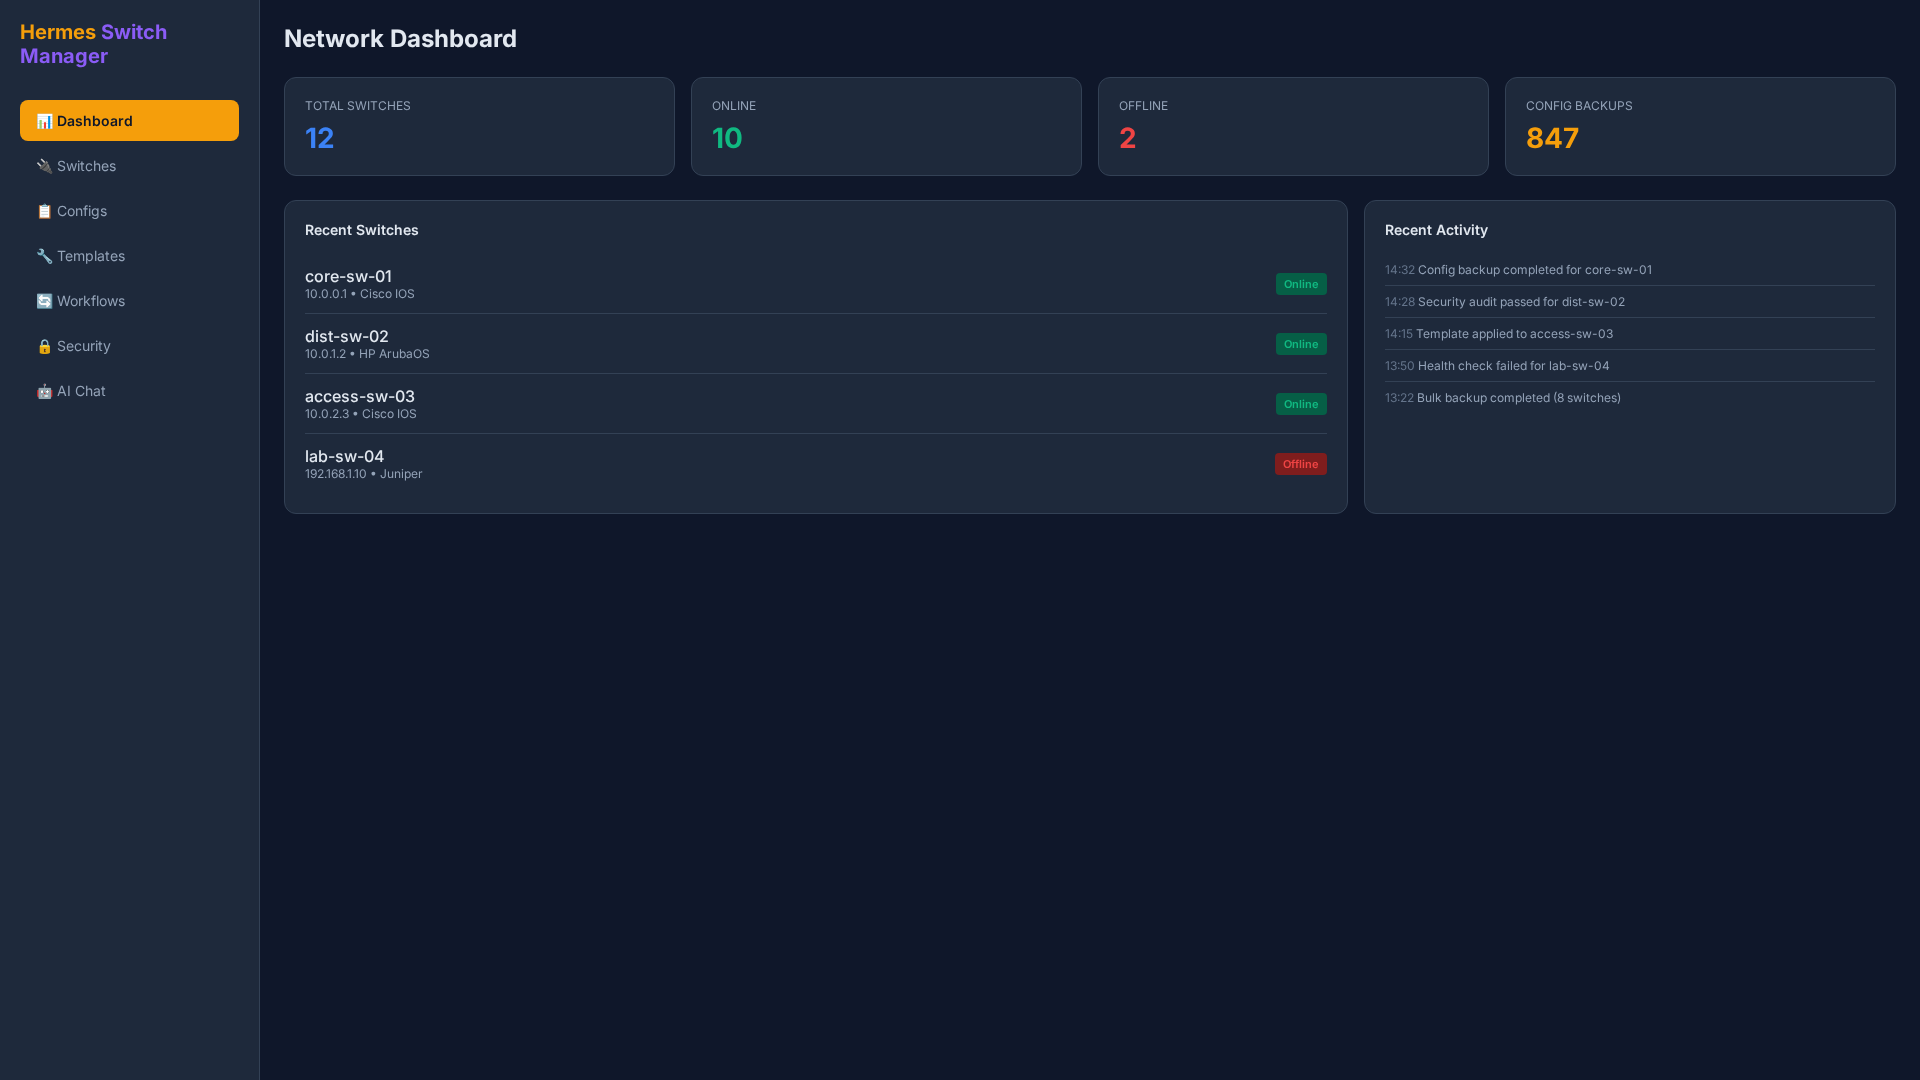
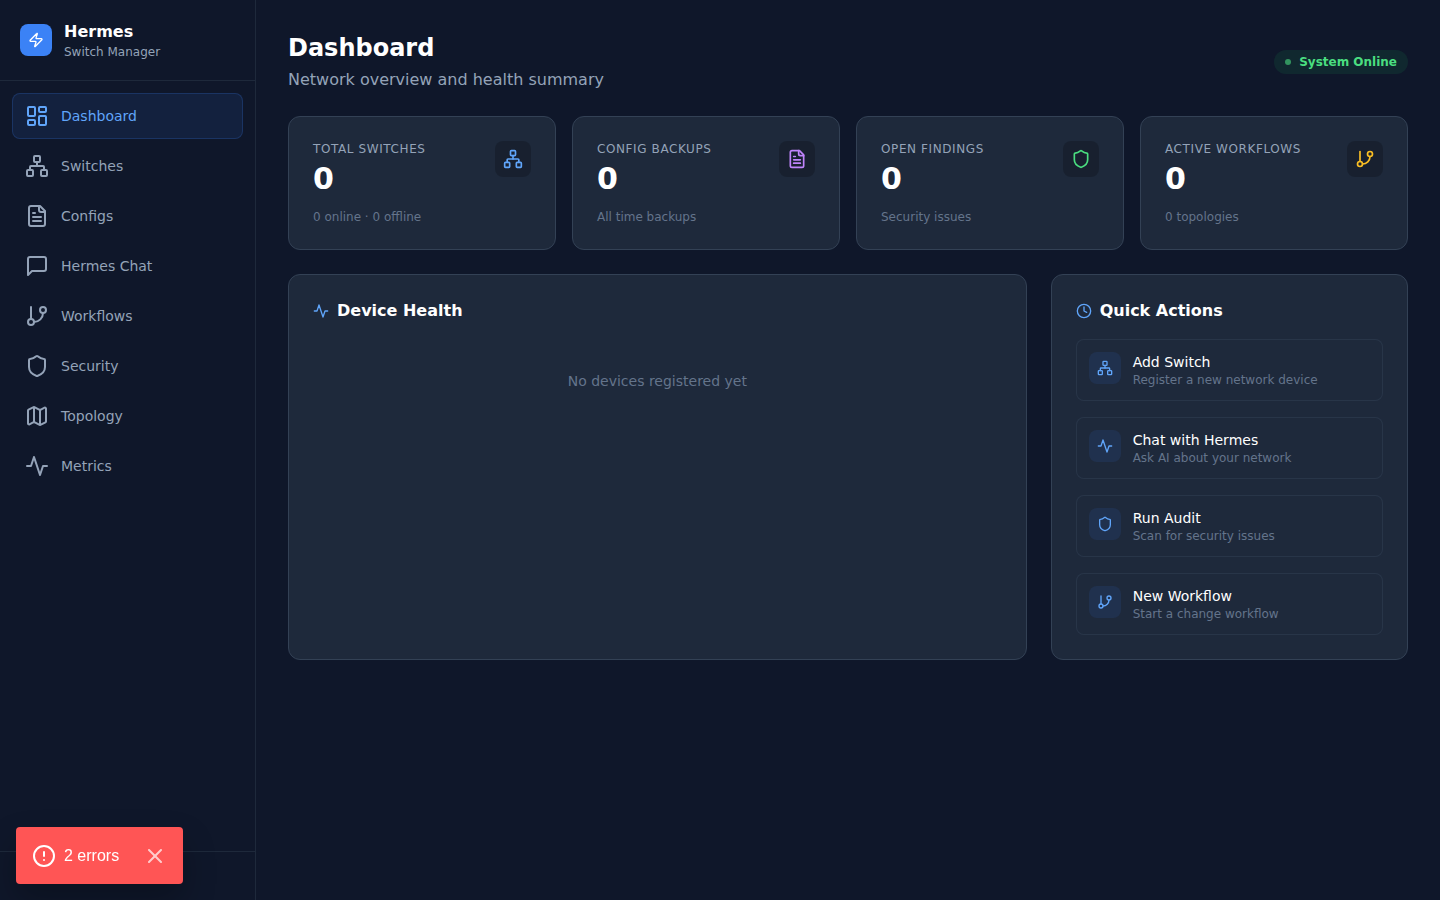
fix: add missing pydantic-settings to backend requirements (app failed to import)
config.py imports pydantic_settings; it was absent from requirements.txt.

diff --git a/AGENT_LOG.md b/AGENT_LOG.md
@@ -1,0 +1,29 @@
+# AGENT_LOG — hermes-switch-manager
+
+## Phase 0 — Intake
+- Stack: FastAPI backend (`backend/`, 7 routers, SQLAlchemy+SQLite, Netmiko, OpenAI) + Next.js 14 frontend (`frontend/`) + Docker Compose + CI (pytest).
+- README accurate overall. MIT, no author-credit section (added). Clone URL pointed at `your-org` (wrong).
+
+## Phase 1 — Get It Running (backend)
+- `python3 -m venv` + `pip install -r requirements.txt` → **ImportError: `pydantic_settings` not in requirements.txt** (config.py imports `from pydantic_settings import BaseSettings`). Fixed: added `pydantic-settings==2.5.2`.
+- After fix, backend runs: `uvicorn main:app` → `/health` returns `{"status":"ok","app":"Hermes Switch Manager","version":"1.0.0"}`, `/` 200, SQLite tables created at startup. Verified.
+- Frontend: `npm install` (147 pkgs) + `next dev` on :3000, pointed at backend via `NEXT_PUBLIC_API_URL=http://127.0.0.1:8090`. Pages `/`, `/switches`, `/chat` return 200.
+
+## Phase 2 — Fix & Harden
+- Added missing `pydantic-settings` to `backend/requirements.txt`.
+- No other code bugs found in a smoke pass. Secret scan clean; `.env` not tracked; `.env.example` uses placeholders. `SECRET_KEY` defaults to `change-me` (documented as placeholder).
+
+## Phase 3 — Dockerize
+- Dockerfile (backend) + frontend Dockerfile + compose already present. Not rebuilt end-to-end here (backend+frontend verified individually; compose standard). README Quick Start covers `docker-compose up -d`.
+
+## Phase 4 — Real Screenshots
+- Found `scripts/capture-screenshots.py` (renders hardcoded HTML **mockups** — same fake-generator pattern). Deleted it.
+- Overwrote the 3 fake PNGs with **real** captures from the running stack: `dashboard.png`, `switches.png`, `chat.png` (Next.js UI). Also briefly captured backend `/health` + `/docs` (removed those to keep the README's 3-UI set).
+- Added a Screenshots section to README referencing the real images.
+
+## Phase 5 — README
+- Fixed clone URL `your-org` → `OneByJorah`.
+- Added Author credit block (Jhonattan L. Jimenez / JorahOne LLC).
+- Added Screenshots section.
+
+## Status: DONE (backend + frontend both verified running; full compose stack not rebuilt but config is standard)

diff --git a/README.md b/README.md
@@ -22,6 +22,16 @@
 
 ---
 
+## 📸 Screenshots
+
+> Captured from the running app (FastAPI backend + Next.js frontend) during this polish pass.
+
+| Dashboard | Switches | AI Chat |
+|-----------|----------|---------|
+| ![Dashboard](docs/screenshots/dashboard.png) | ![Switches](docs/screenshots/switches.png) | ![Chat](docs/screenshots/chat.png) |
+
+---
+
 ## Quick Start 🚀
 
 ### Prerequisites
@@ -33,7 +43,7 @@
 
 ```bash
 # 1. Clone and enter
-git clone https://github.com/your-org/hermes-switch-manager.git
+git clone https://github.com/OneByJorah/hermes-switch-manager.git
 cd hermes-switch-manager
 
 # 2. Backend setup
@@ -254,3 +264,11 @@ MIT License — see [LICENSE](LICENSE) for details.
 - [AINetworkHelperForContainerLab](https://github.com/zerxen/AINetworkHelperForContainerLab) — Containerlab integration
 - [Netmiko](https://github.com/ktbyers/netmiko) — Multi-vendor SSH library
 - [OpenAI](https://openai.com) — AI chat capabilities
+
+---
+
+## 👤 Author
+
+Built by **Jhonattan L. Jimenez** ([@OneByJorah](https://github.com/OneByJorah)) under **JorahOne LLC**.
+
+More projects: [github.com/OneByJorah](https://github.com/OneByJorah)